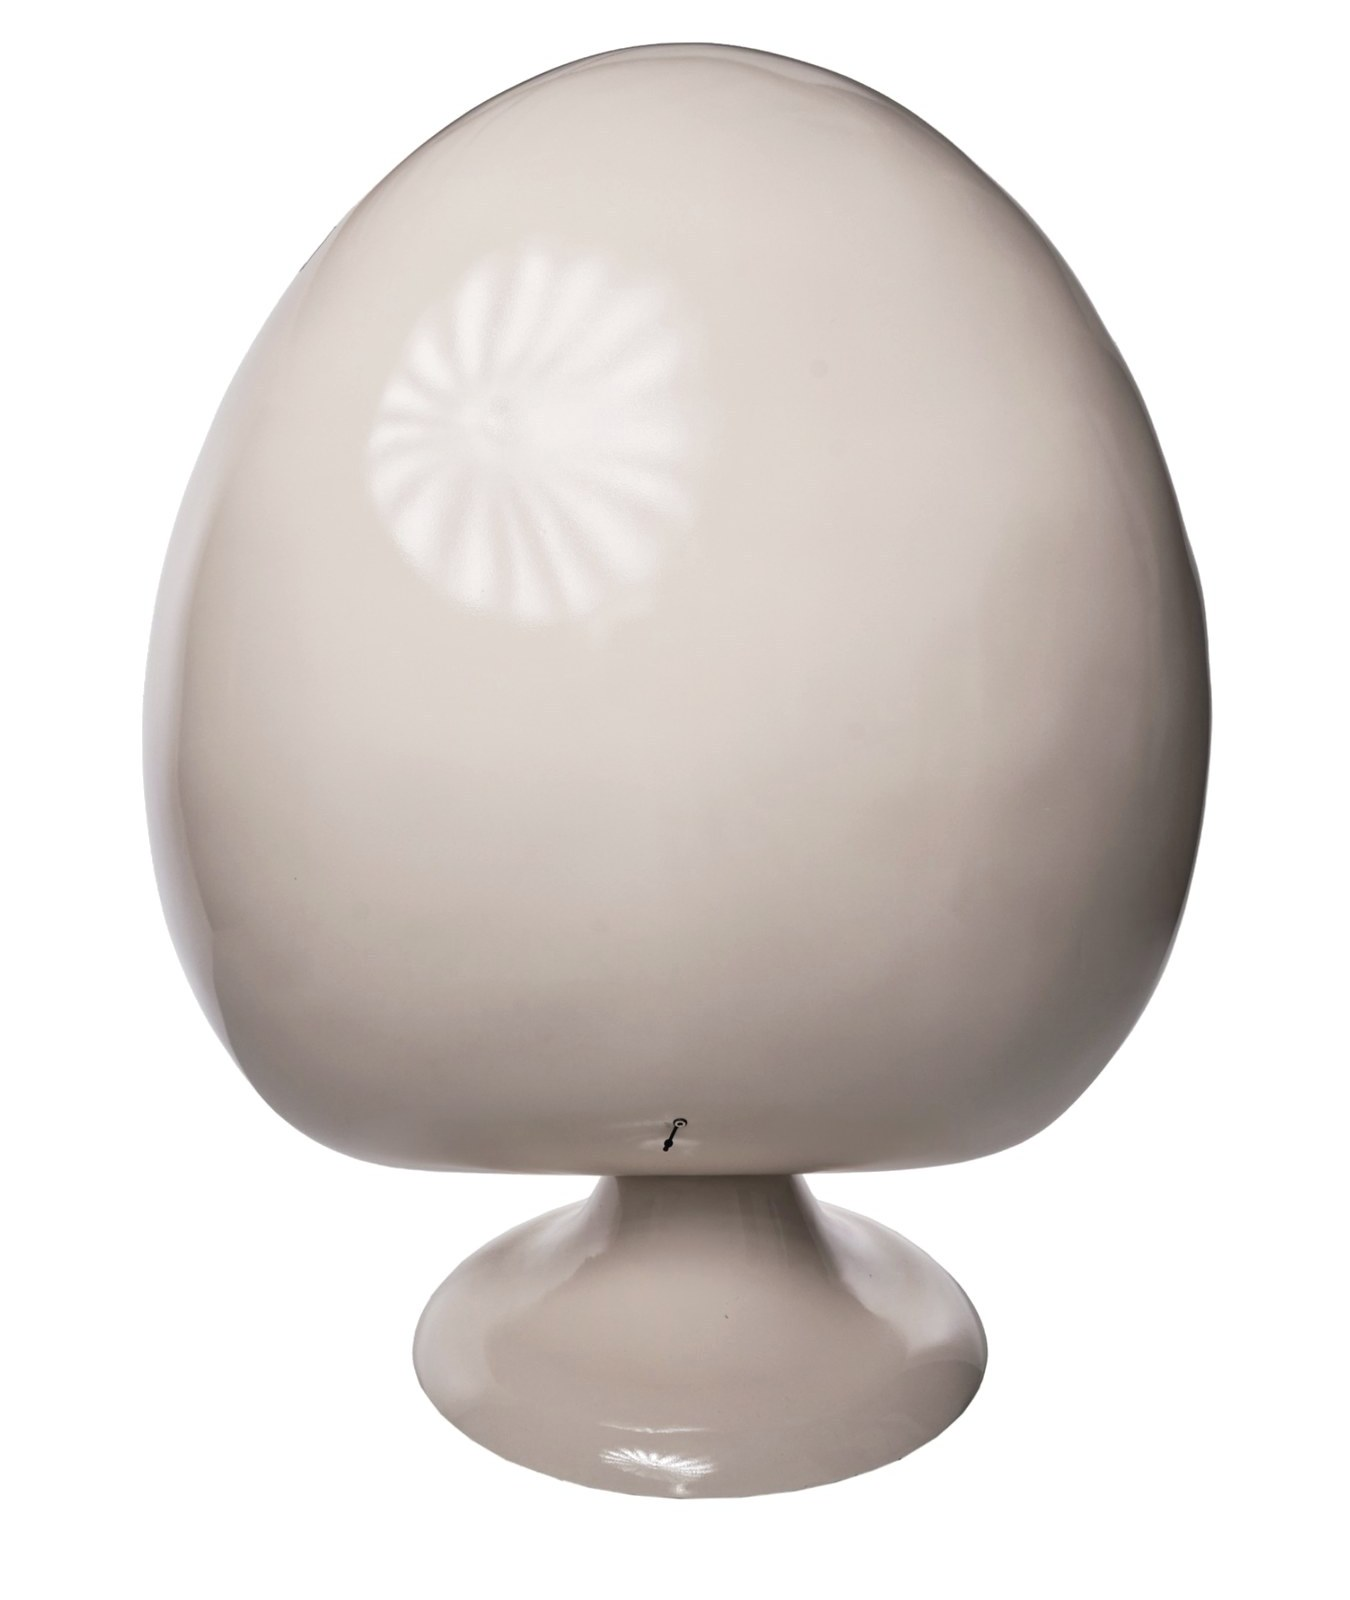
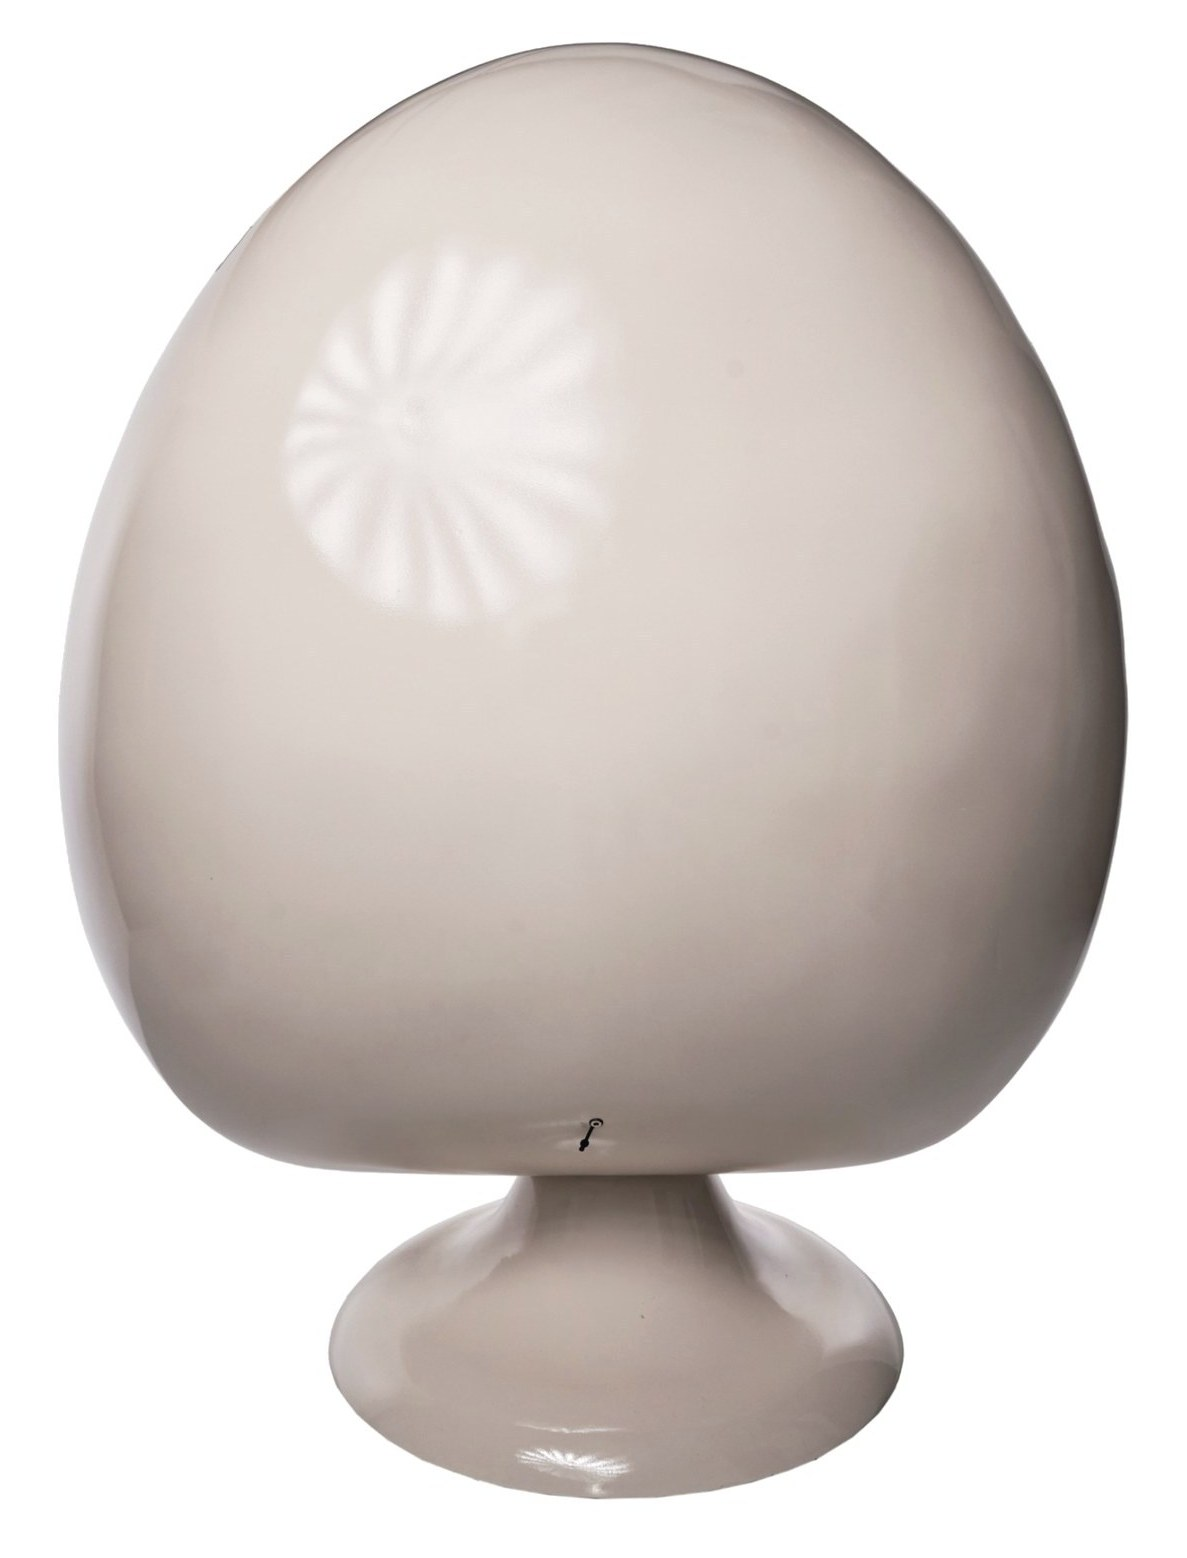
Solodome: match chair sizes
Claude-Session: https://claude.ai/code/session_012U18n2jx8i57thyH5Nwtnb

diff --git a/features/solodome/index.html b/features/solodome/index.html
@@ -324,9 +324,9 @@ footer p span{color:#fed438}
       <p>What followed became Solodome, an immersive experience designed to support nervous system regulation, recovery, and restoration.</p>
     </div>
 
-    <div class="wrap wide g g2" style="grid-template-columns:minmax(0,0.8438fr) minmax(0,0.8036fr)">
-      <figure><span class="crop"><img loading="lazy" src="/features/solodome/img/s3.jpg" alt="The Solodome chair from behind" style="aspect-ratio:1350/1600;object-position:50% 50%"></span></figure>
-      <figure><span class="crop"><img loading="lazy" src="/features/solodome/img/s17.jpg" alt="The Solodome chair, front view" style="aspect-ratio:1350/1680;object-position:50% 50%"></span></figure>
+    <div class="wrap wide g g2" style="grid-template-columns:minmax(0,0.7619fr) minmax(0,0.7748fr)">
+      <figure><span class="crop"><img loading="lazy" src="/features/solodome/img/s3.jpg" alt="The Solodome chair from behind" style="aspect-ratio:1187/1558;object-position:50% 50%"></span></figure>
+      <figure><span class="crop"><img loading="lazy" src="/features/solodome/img/s17.jpg" alt="The Solodome chair, front view" style="aspect-ratio:1139/1470;object-position:50% 50%"></span></figure>
     </div>
 
     <div class="wrap col">

diff --git a/_build/feature-template/solodome-source.html b/_build/feature-template/solodome-source.html
@@ -317,9 +317,9 @@ footer p span{color:#fed438}
       <p>What followed became Solodome, an immersive experience designed to support nervous system regulation, recovery, and restoration.</p>
     </div>
 
-    <div class="wrap wide g g2" style="grid-template-columns:minmax(0,0.8438fr) minmax(0,0.8036fr)">
-      <figure><span class="crop"><img src="{{s3}}" alt="The Solodome chair from behind" style="aspect-ratio:1350/1600;object-position:50% 50%"></span></figure>
-      <figure><span class="crop"><img src="{{s17}}" alt="The Solodome chair, front view" style="aspect-ratio:1350/1680;object-position:50% 50%"></span></figure>
+    <div class="wrap wide g g2" style="grid-template-columns:minmax(0,0.7619fr) minmax(0,0.7748fr)">
+      <figure><span class="crop"><img src="{{s3}}" alt="The Solodome chair from behind" style="aspect-ratio:1187/1558;object-position:50% 50%"></span></figure>
+      <figure><span class="crop"><img src="{{s17}}" alt="The Solodome chair, front view" style="aspect-ratio:1139/1470;object-position:50% 50%"></span></figure>
     </div>
 
     <div class="wrap col">
